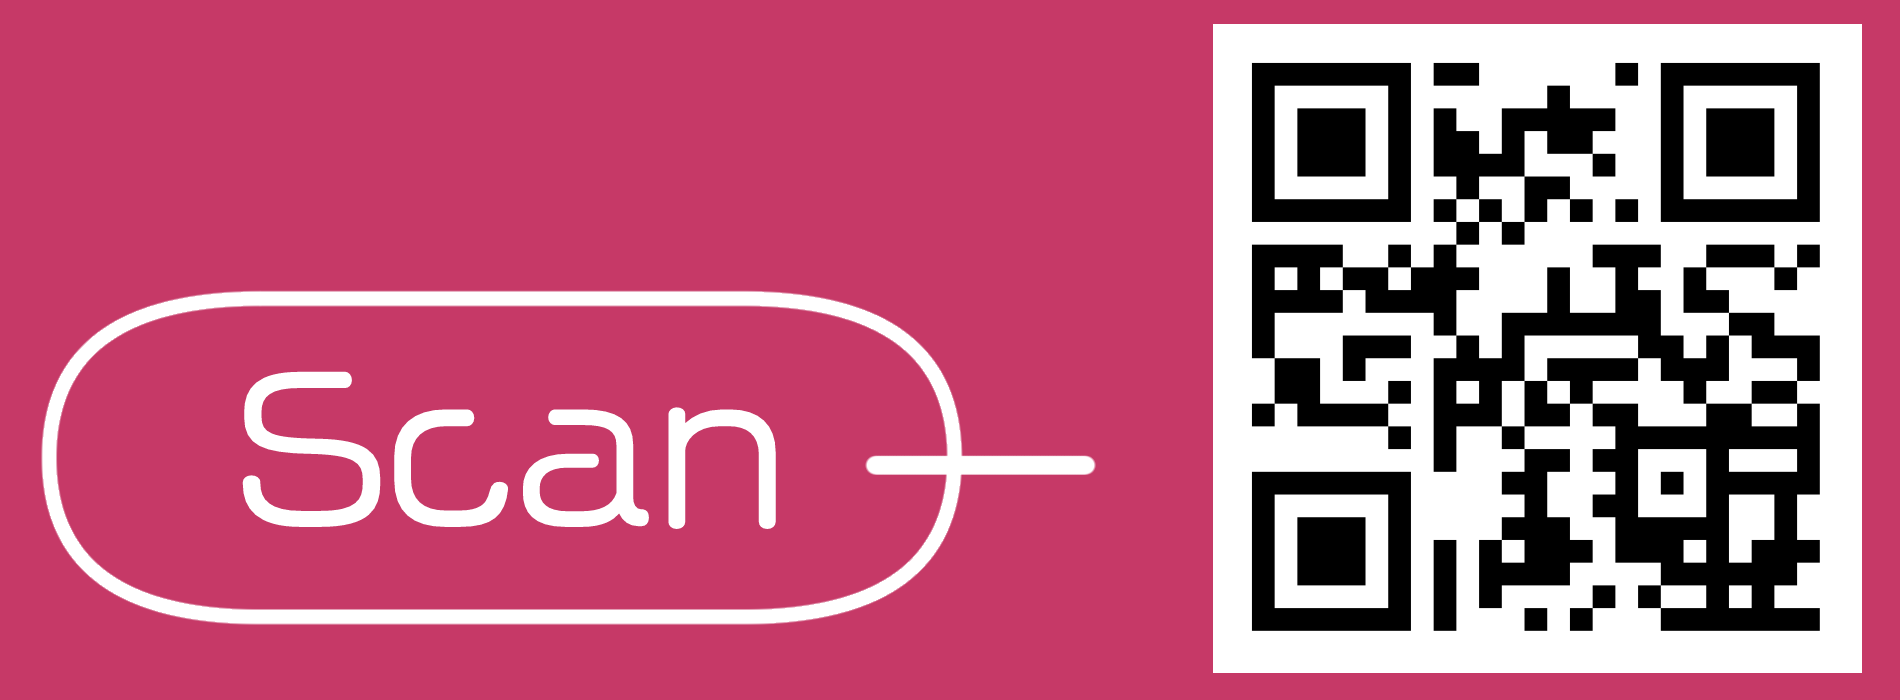
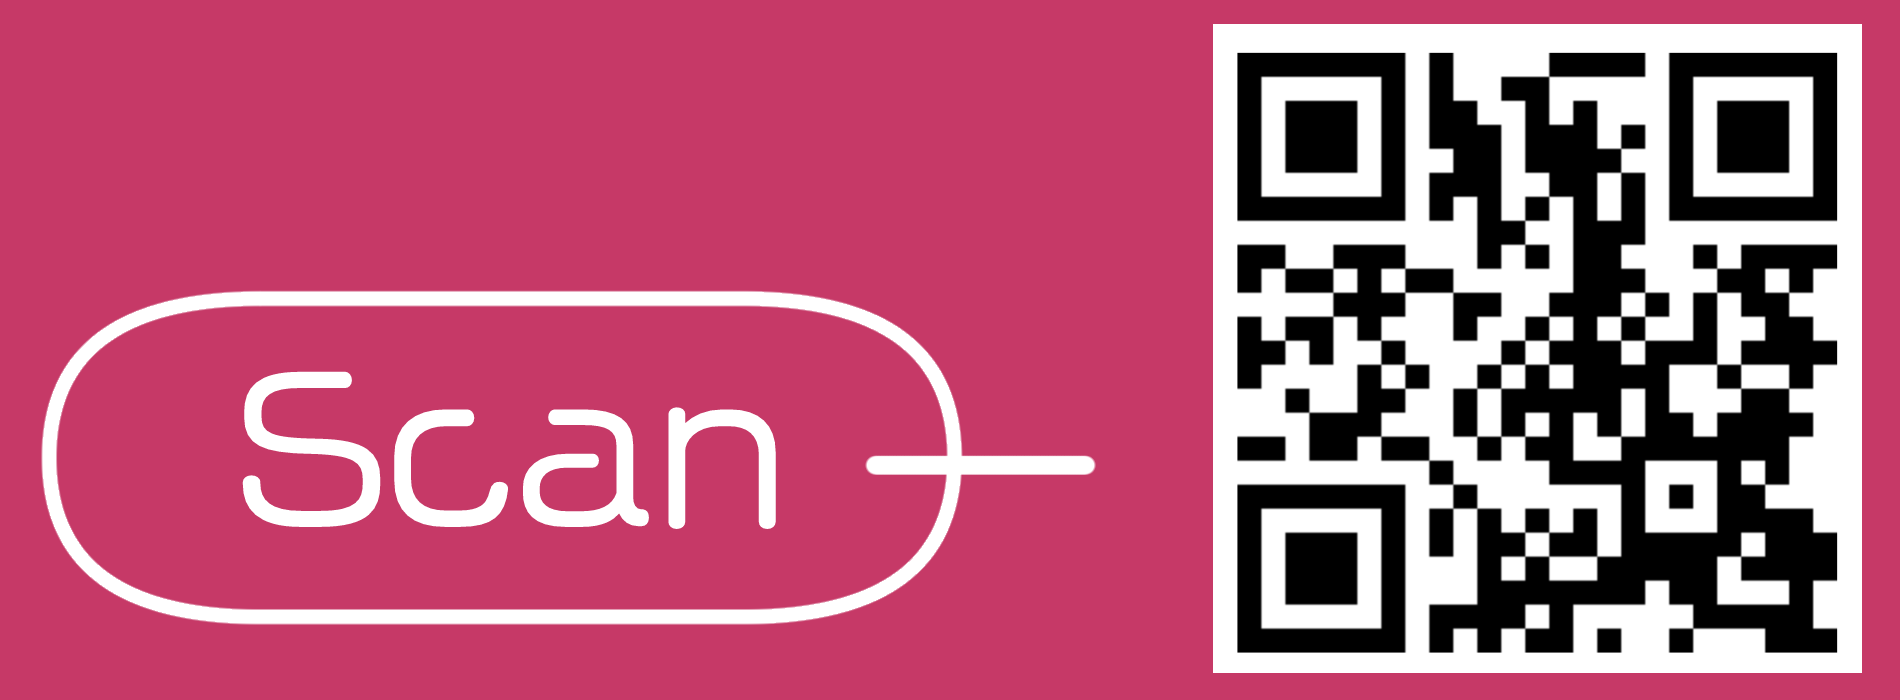
ＱＲコード修正、windowにキャンセルボタン配置

Changed region(s): [[0.6521, 0.06, 0.9937, 0.93]]

diff --git a/main/index.html b/main/index.html
@@ -17,6 +17,7 @@
 
     <div id="js-detail">
             <nav class="comment">
+                <img class="cancel" src="cancel.png" width="30px">
                 <div class="my-parts" id="my-parts"><span></span></div>
                 <div class="grid-Container dbg-Border">
                     <div class="grid-img">
@@ -28,6 +29,8 @@
                 </div>
             </nav>
     </div>
+
+    <div class="window-bg" id="js-window-bg"></div>
 
     <header class="header">
         <div class="header">

diff --git a/main/style.css b/main/style.css
@@ -80,7 +80,7 @@ html,body {
     width: 70px; /* クリックしやすいようにちゃんと幅を指定する */
     height: 40px; /* クリックしやすいようにちゃんと高さを指定する */
     cursor: pointer;
-    z-index: 300;
+    z-index: 1500;
 }
 
 .global-nav__item {

diff --git a/main/window.css b/main/window.css
@@ -6,6 +6,10 @@
     z-index: 900;
 }
 
+.cancel{
+    margin-left: 10px;
+};
+
 .my-parts {
     width: 50px;
     height: 50px;
